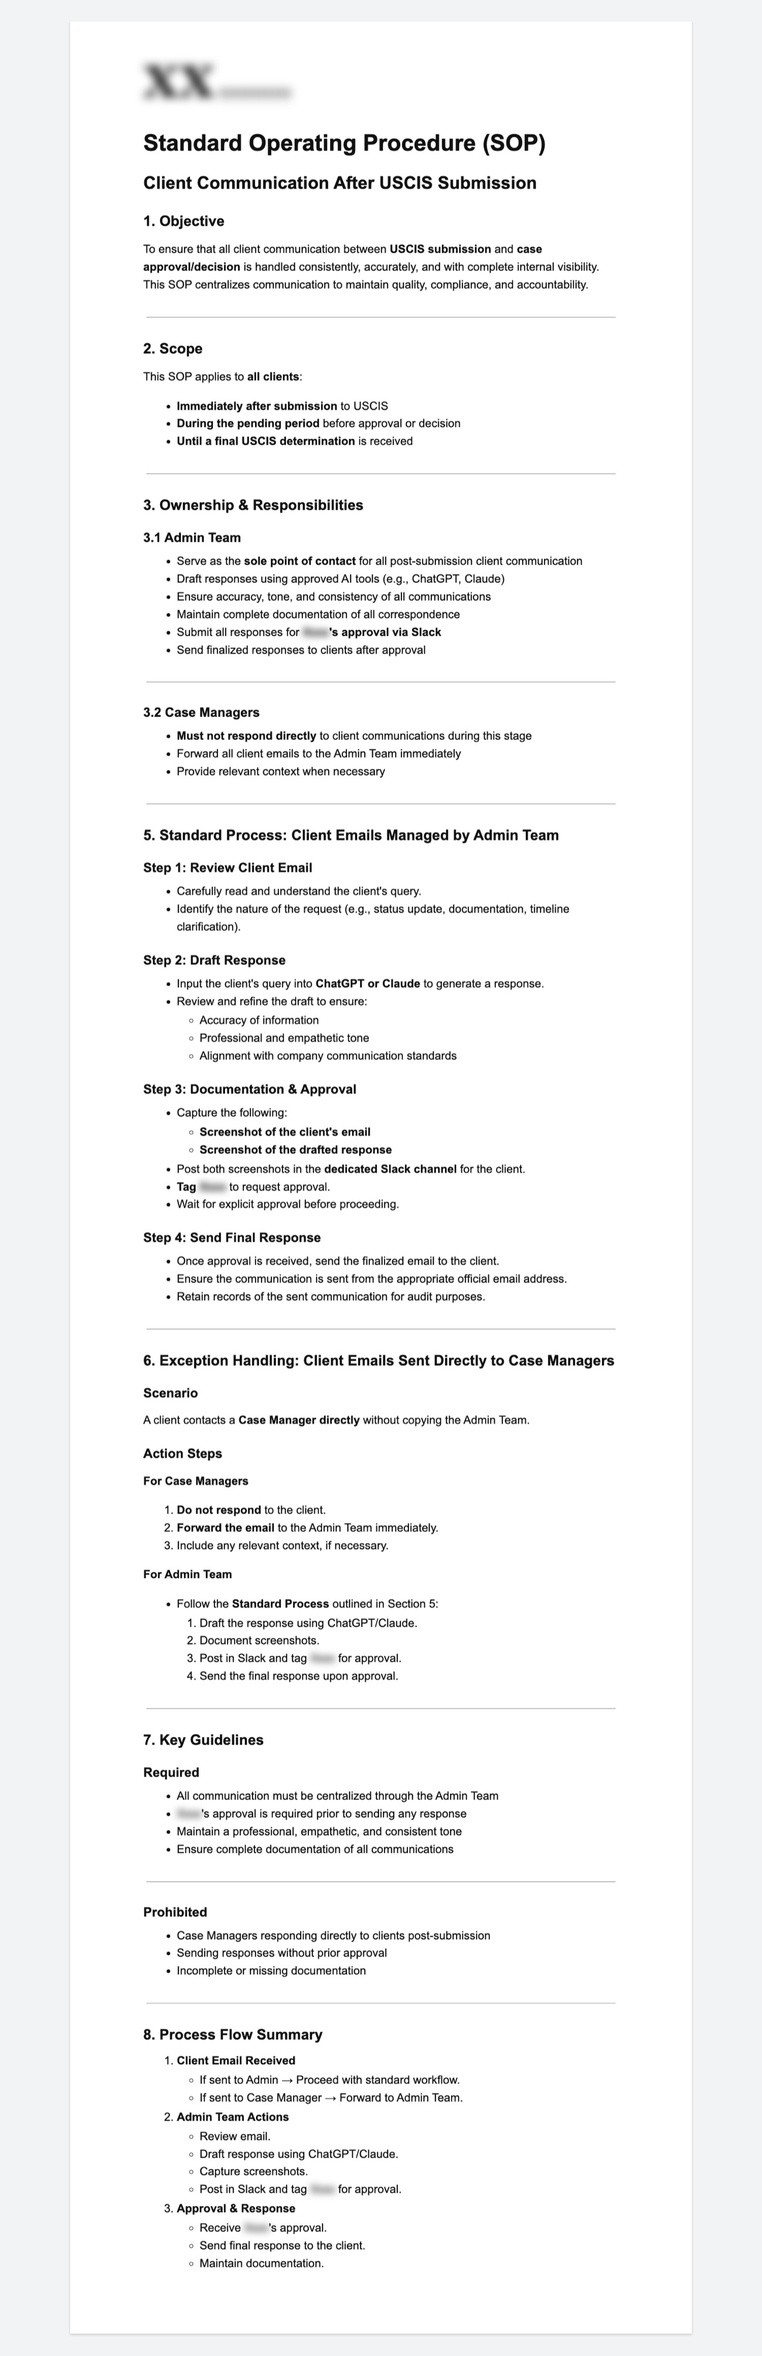
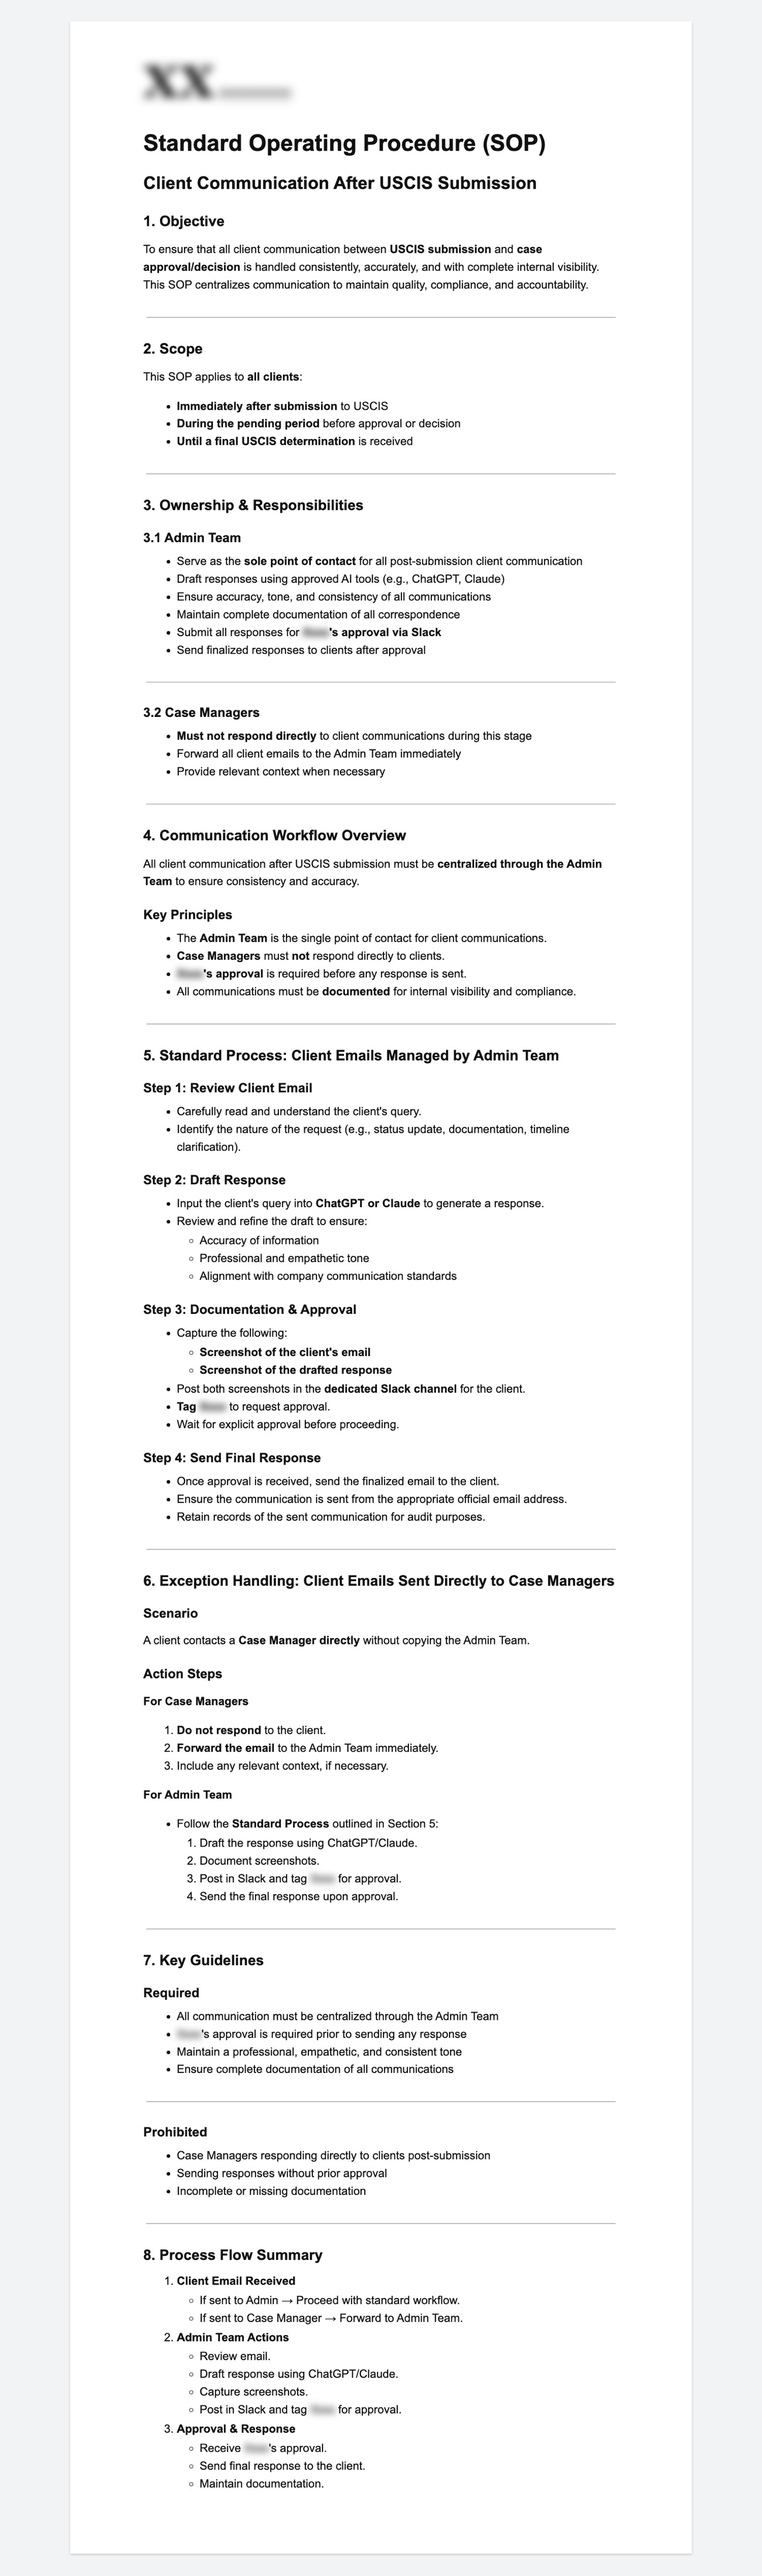
Add section 4 to the client-communication SOP screenshot

Changed region(s): [[0.1846, 0.0, 0.8, 0.9642], [0.6462, 0.4665, 0.6769, 0.4976]]

diff --git a/index.html b/index.html
@@ -545,8 +545,8 @@
         <div class="client">Immigration law firm</div>
       </div>
       <div class="docwrap">
-        <div class="docframe scrollframe" tabindex="0" aria-label="SOP: Client communication after USCIS submission, covering objective, scope, ownership and a four-step process for drafting, approving and sending client emails. Scroll to read the full SOP.">
-          <img src="images/sop-client-comms.jpg" alt="SOP: Client communication after USCIS submission, covering objective, scope, ownership and a four-step process for drafting, approving and sending client emails" width="1300" height="4019" loading="lazy">
+        <div class="docframe scrollframe" tabindex="0" aria-label="SOP: Client communication after USCIS submission, covering objective, scope, ownership, workflow, a four-step approval process, exception handling, key guidelines and a process flow summary. Scroll to read the full SOP.">
+          <img src="images/sop-client-comms.jpg" alt="SOP: Client communication after USCIS submission, covering objective, scope, ownership, workflow, a four-step approval process, exception handling, key guidelines and a process flow summary" width="1300" height="4394" loading="lazy">
         </div>
         <div class="brief-note">firm and names hidden</div>
       </div>
